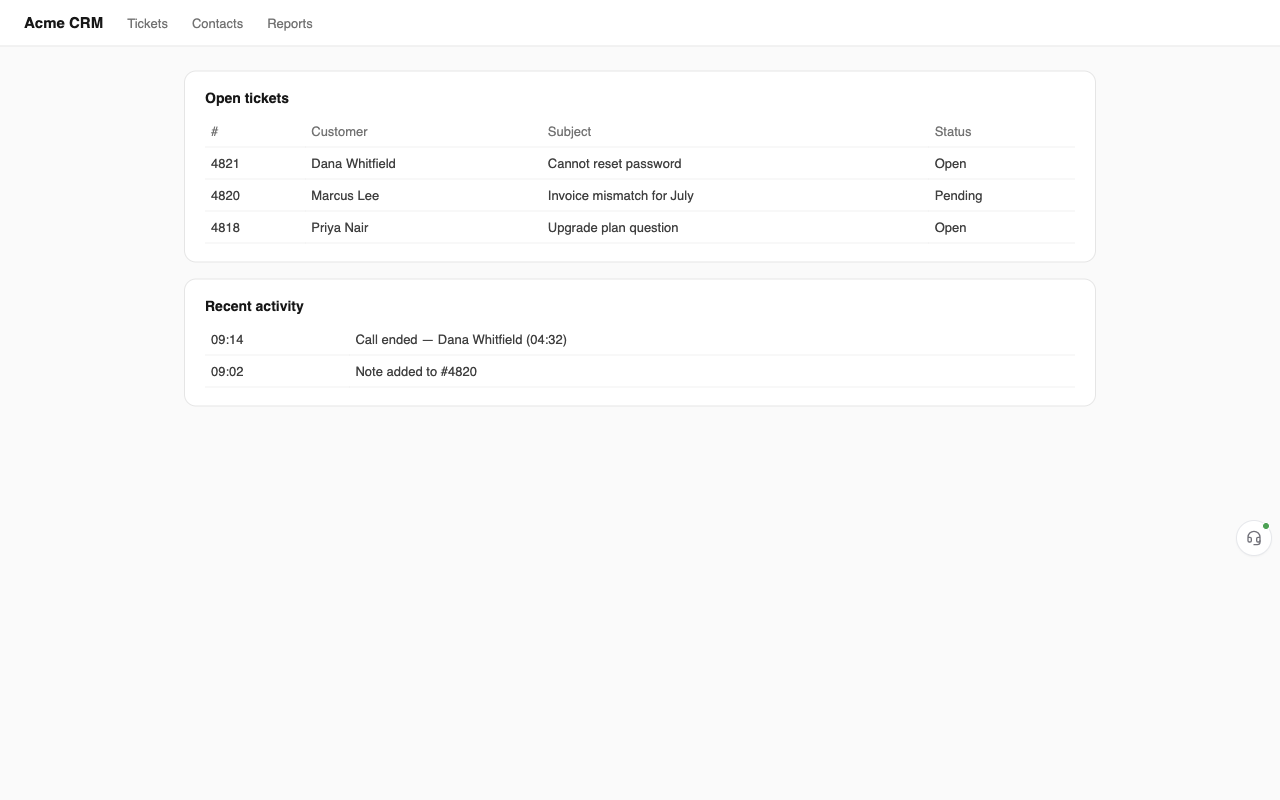
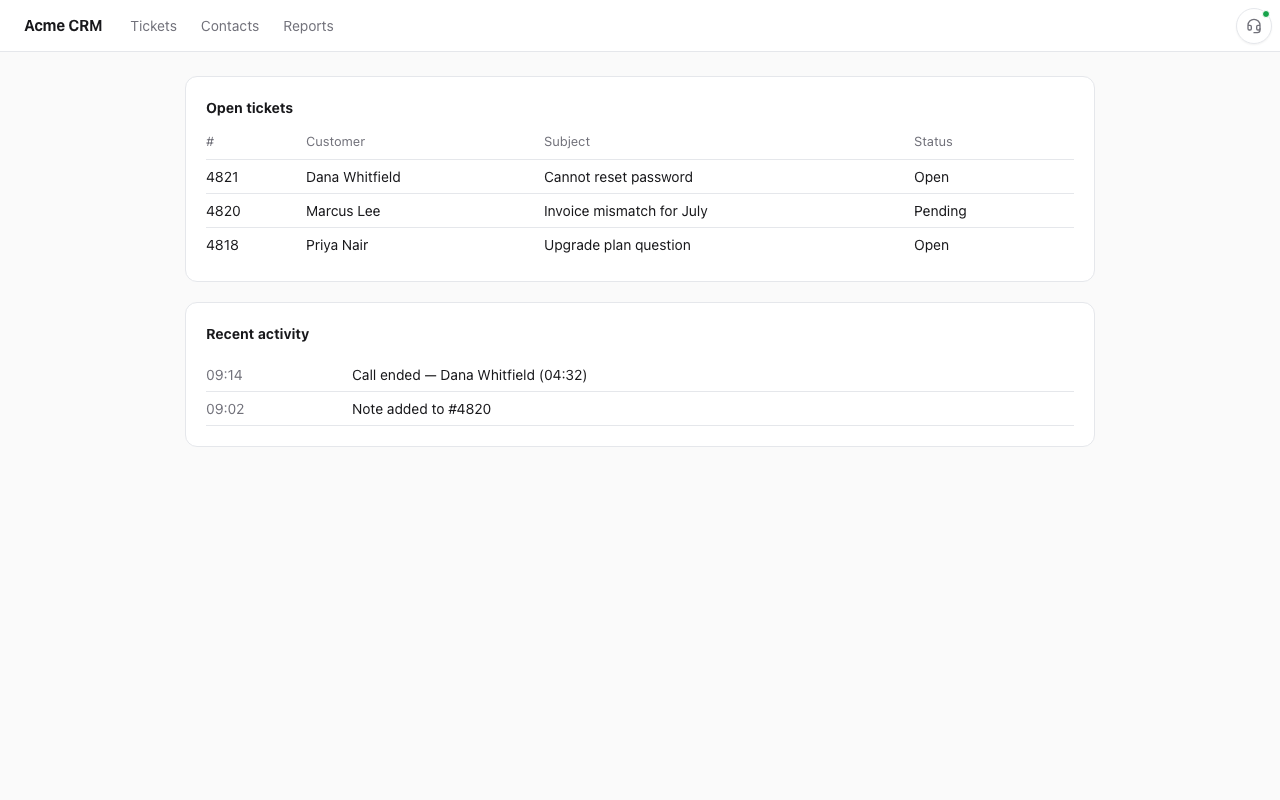
fix(view): the panel opened off screen at the default dock
cardPlacement() measured the dot, but render() calls wrap.replaceChildren() before
asking for a placement — so the dot was detached and getBoundingClientRect() returned
zeros. Every panel therefore opened "below and to the right" no matter where the widget
was parked, and the default dock is the top-right corner, so the panel hung off the
right edge of the viewport. Measuring the wrap fixes it: the wrap is always attached
and is exactly the widget box, since the card is out of flow.

The existing test passed because it stubbed getBoundingClientRect on the dot object,
and a stub does not care whether its element is in the document. The added test pins
the real property instead: it makes the dot's rect throw, so measuring the detached
element fails loudly rather than silently returning zeros.

Found by the new screenshot harness — the first shot of the panel came back with it
hanging off the right edge, which is exactly what a user at the default dock saw.

Adds `npm run shoot`: it mounts the real WebSipPhoneView on the checked-in demo page
with a frozen DisplayState and captures 1280x800 via headless Chrome over CDP. Screens
1-3 are re-taken from source, so they can never again drift a release behind the UI
the way they just did. CDP by hand rather than a browser-automation devDependency:
this runs a few times a year and a ~300MB dependency would cost more than it saves.
Chrome's own --screenshot flag was not an option — it belonged to old headless mode,
removed in Chrome 132.

diff --git a/scripts/screenshot-preview.ts b/scripts/screenshot-preview.ts
@@ -1,0 +1,68 @@
+/**
+ * Store-screenshot harness. Mounts the real `WebSipPhoneView` on the demo page with a scripted
+ * `DisplayState`, so shots 1-3 can be re-taken from source after any UI change instead of
+ * requiring a live registration, a microphone grant and an inbound call.
+ *
+ * Everything visible is the shipped component: the same class, the same shadow DOM, the same
+ * copy, positioned by the same `applyPosition`. Only the *values* are scripted (which extension,
+ * how long until the registration expires, how loud the room is) — and they are frozen, so
+ * re-running the shoot produces a byte-identical countdown rather than a new diff every time.
+ */
+import { applyPosition } from "../src/content/drag.js";
+import { WebSipPhoneView } from "../src/content/view.js";
+import { RuntimeState, IDLE_LINK, EMPTY_DETAILS, type DisplayState } from "../src/shared/state.js";
+
+declare const __VERSION__: string;
+
+/** Frozen clock: the countdown in the Signaling row must not drift between shoots. */
+const NOW = Date.parse("2026-08-21T09:14:00Z");
+const EXPIRES_IN_MS = 252_000; // 4:12
+
+const READY: DisplayState = {
+  runtime: RuntimeState.Ready,
+  error: null,
+  reconnecting: false,
+  busy: false,
+  link: { ...IDLE_LINK, registration: "up", websocket: "up", microphone: "ok" },
+  details: {
+    ...EMPTY_DETAILS,
+    account: "1005",
+    domain: "ws.aicc.test",
+    registrationExpiresAt: NOW + EXPIRES_IN_MS,
+    turnConfigured: false,
+    micDeviceLabel: "MacBook Pro Microphone",
+    // Mid-scale: enough to light the meter without pinning it, which is what a person
+    // talking normally looks like.
+    micLevel: 0.14
+  }
+};
+
+const STATES: Record<string, { state: DisplayState; open: boolean }> = {
+  ready: { state: READY, open: false },
+  panel: { state: READY, open: true },
+  // A call rides the button, never the badge — the whole point of the two-channel design.
+  call: { state: { ...READY, busy: true, link: { ...READY.link, media: "ok" } }, open: false }
+};
+
+const which = new URL(location.href).searchParams.get("state") ?? "ready";
+const shot = STATES[which];
+if (!shot) {
+  throw new Error(`Unknown preview state "${which}" — expected one of ${Object.keys(STATES).join(", ")}`);
+}
+
+const host = document.createElement("div");
+host.id = "web-sip-phone-host";
+document.documentElement.appendChild(host);
+
+const view = new WebSipPhoneView(host, () => {}, { version: __VERSION__, now: () => NOW });
+applyPosition(host, null); // the default dock, top-right
+view.update(shot.state);
+if (shot.open) {
+  view.dot.click();
+}
+
+// The shoot waits for this rather than a fixed delay, so a slow font load cannot land
+// mid-render in the PNG.
+document.fonts.ready.then(() => {
+  document.documentElement.setAttribute("data-preview-ready", which);
+});

diff --git a/test/content/view.test.ts b/test/content/view.test.ts
@@ -337,10 +337,25 @@ describe("panel placement and dismissal", () => {
     dot.click();
     expect(wrap().className).toBe("wrap card-below card-left");
     dot.click();
-    // Parked bottom-right → the card rises and hangs off the dot's right edge.
-    dot.getBoundingClientRect = () => ({ top: 700, left: 900, width: 36, height: 36 }) as DOMRect;
+    // Parked bottom-right → the card rises and hangs off the widget's right edge.
+    wrap().getBoundingClientRect = () => ({ top: 700, left: 900, width: 36, height: 36 }) as DOMRect;
     dot.click();
     expect(wrap().className).toBe("wrap card-above card-right");
+  });
+
+  // Regression: placement used to be measured off the dot, which render() has already detached
+  // by the time it asks. A detached element reports a zero rect, so every panel opened
+  // below-and-right no matter where the widget was parked — off screen at the default dock.
+  it("measures placement off an element that is still in the document", () => {
+    view.update(READY);
+    const dot = root().querySelector("[data-role=dot]") as HTMLElement;
+    const wrap = root().querySelector(".wrap") as HTMLElement;
+    dot.getBoundingClientRect = () => {
+      throw new Error("placement must not be measured off the detached dot");
+    };
+    wrap.getBoundingClientRect = () => ({ top: 8, left: 1236, width: 36, height: 36 }) as DOMRect;
+    dot.click();
+    expect(wrap.className).toBe("wrap card-below card-right");
   });
 
   it("clicking outside the widget dismisses the panel", () => {

diff --git a/src/content/view.ts b/src/content/view.ts
@@ -431,7 +431,11 @@ export class WebSipPhoneView {
    * its far edge with the dot so the card grows toward the middle of the screen.
    */
   private cardPlacement(): string {
-    const r = this.dot.getBoundingClientRect();
+    // Measured off the wrap, not the dot: render() clears the wrap before asking for a placement,
+    // so the dot is detached at this point and would report a zero rect — which silently pinned
+    // every panel to "below and to the right", hanging it off the screen at the default dock.
+    // The wrap is always attached and is exactly the widget box (the card is out of flow).
+    const r = this.wrap.getBoundingClientRect();
     const vertical = r.top + r.height / 2 < window.innerHeight / 2 ? "card-below" : "card-above";
     const horizontal = r.left + r.width / 2 < window.innerWidth / 2 ? "card-left" : "card-right";
     return `${vertical} ${horizontal}`;

diff --git a/store-assets/LISTING.md b/store-assets/LISTING.md
@@ -102,15 +102,13 @@ Nothing is fetched and executed at runtime.
 
 ### Re-shooting them
 
-The business page in shots 1–3 is `store-assets/demo-page/`, checked in so a re-shoot after a UI
-change does not mean rebuilding the page from the old PNGs:
+Shots 1-3: `npm run shoot`. It bundles `scripts/screenshot-preview.ts` — which mounts the real
+`WebSipPhoneView` on `store-assets/demo-page/` with a frozen `DisplayState` — serves the page on
+loopback, and drives headless Chrome over CDP to capture it at exactly 1280x800. Everything
+visible is the shipped component; only the values (extension, expiry, mic level) are scripted,
+and they are frozen so a re-shoot produces the same countdown rather than a fresh diff.
 
-1. `npm run build`, then reload the unpacked extension at `chrome://extensions`.
-2. `npm run demo` — serves the page at http://localhost:8100.
-3. Options → Allow Sites → add `localhost` (loopback is allowed over HTTP), and
-   Advanced → Test microphone to grant access.
-4. Size the viewport to exactly 1280×800 and shoot: ready (green badge), the panel open, and a
-   call in progress. For the call, originate one from FreeSWITCH with
-   `Call-Info: <sip:...>;answer-after=0` so it auto-answers.
+Shot 4 is the options page, taken by hand. Keep a fake account in it — never a real password.
 
-Keep a fake account in shot 4 — never a real password.
+A live shoot is still the authenticity check before a submission that changes the widget: load
+the unpacked build, register against a real server, and confirm the page matches these three.

diff --git a/README.md b/README.md
@@ -31,6 +31,7 @@ the page's own softphone bar owns all call-facing UI. SIP support comes from a
 - `npm run package` — store-submittable zip
 - `npm run demo` — serves `store-assets/demo-page/` on http://localhost:8100, the stand-in business
   page used for the store screenshots (add `localhost` under Allow Sites)
+- `npm run shoot` — re-takes store screenshots 1–3 from source (headless Chrome, 1280×800)
 
 ## Load unpacked
 1. chrome://extensions → enable Developer mode → Load unpacked → select `dist/`.
